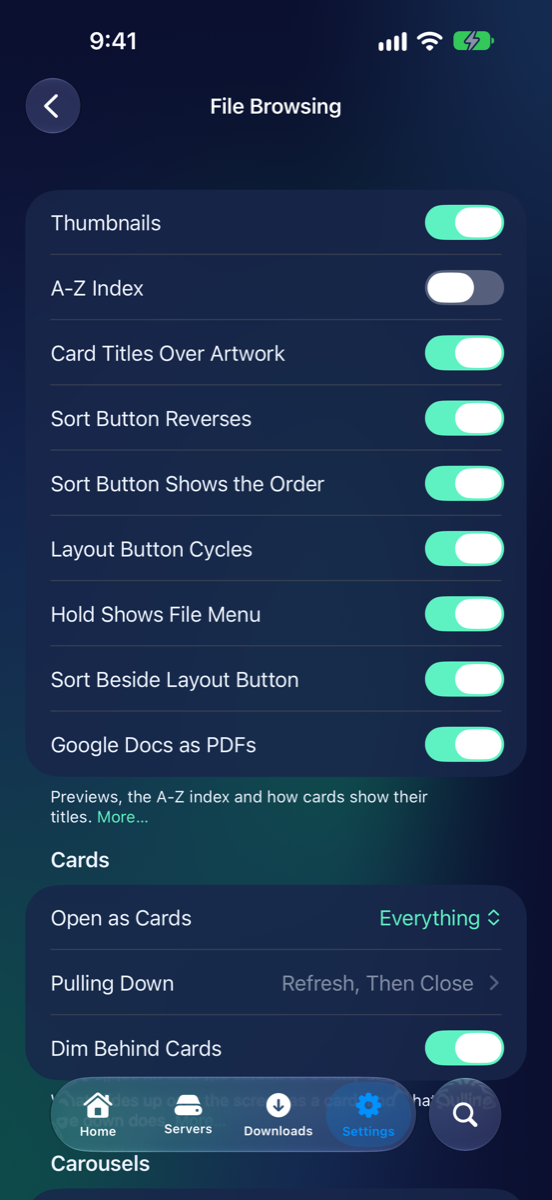
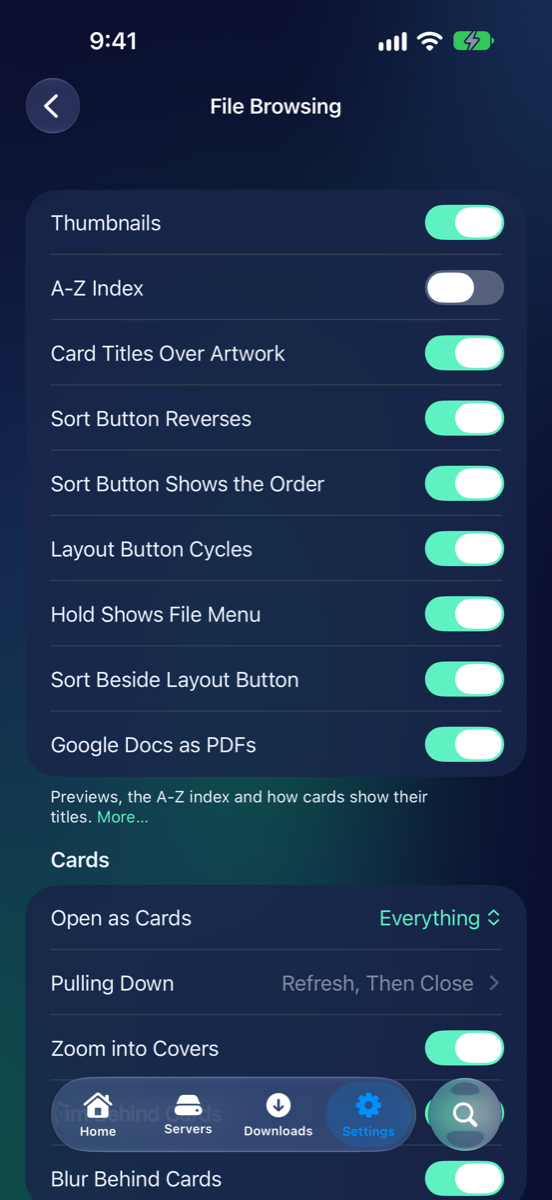
Publish the guide (from d33dc00)

Changed region(s): [[0.0308, 0.8633, 0.4004, 1.0], [0.7391, 0.8942, 0.9239, 1.0]]

diff --git a/Settings-Home-Browsing.md b/Settings-Home-Browsing.md
@@ -117,6 +117,7 @@ Settings → **File Browsing** is about folders: how they look, what the buttons
 **Open as Cards** chooses what slides up over the screen as a card: **Everything** (folders, servers and the pages of movies, shows and series), **Movies, Shows & Series**, or **Off**, which slides everything in from the side with a back button. Drag a card's top bar down, or tap the chevron, to close it.
 
 - **Pulling Down** sets what pulling a card's list down does, for a short pull and a long one: refresh, close the card, both or neither.
+- **Zoom into Covers** grows a poster or cover you tap into the page it opens, and shrinks the page back into it when you close it. Off, or with Reduce Motion on, a card slides up as before.
 - **Dim Behind Cards** darkens the screen behind a card as it comes up.
 - **Blur Behind Cards** blurs what's behind a card that doesn't fill the screen, so the card is the one thing to read.
 - **Libraries Use the Whole Screen** (iPhone Duo and iPad): on its side, a server, library or folder opens as a card across the whole screen, six posters a row. A movie's or show's page stays a card down the middle.

diff --git a/whats-new.md b/whats-new.md
@@ -12,6 +12,27 @@ The highlights of each MK Plus update since public TestFlight testing began (ver
 
 ## November 2026
 
+### Covers grow into their page
+
+_Version 1.342.0 · 11 November 2026_
+
+- Tap a poster or a cover on Home and its page grows out of it.
+- Close the page and it shrinks back into the cover you tapped.
+- Zoom into Covers, in Settings → File Browsing, turns it off. With Reduce Motion on, pages slide up as before.
+
+<details markdown="1">
+<summary>Everything in 1.342.0</summary>
+
+**New**
+
+- Zoom into Covers: a movie's or show's page opened from a cover on Home or a poster in a movie or show library grows from that cover, and closing it with its chevron or Back shrinks it back. Pulling a card down or swiping it across still carries it away under your finger. It's in Settings → File Browsing → Cards, and Reduce Motion turns it off.
+
+**Changed**
+
+- With VoiceOver, the two-finger scrub closes a card, as its chevron does.
+
+</details>
+
 ### Sharper covers on Home, and you choose the words under them
 
 _Version 1.341.0 · 11 November 2026_
